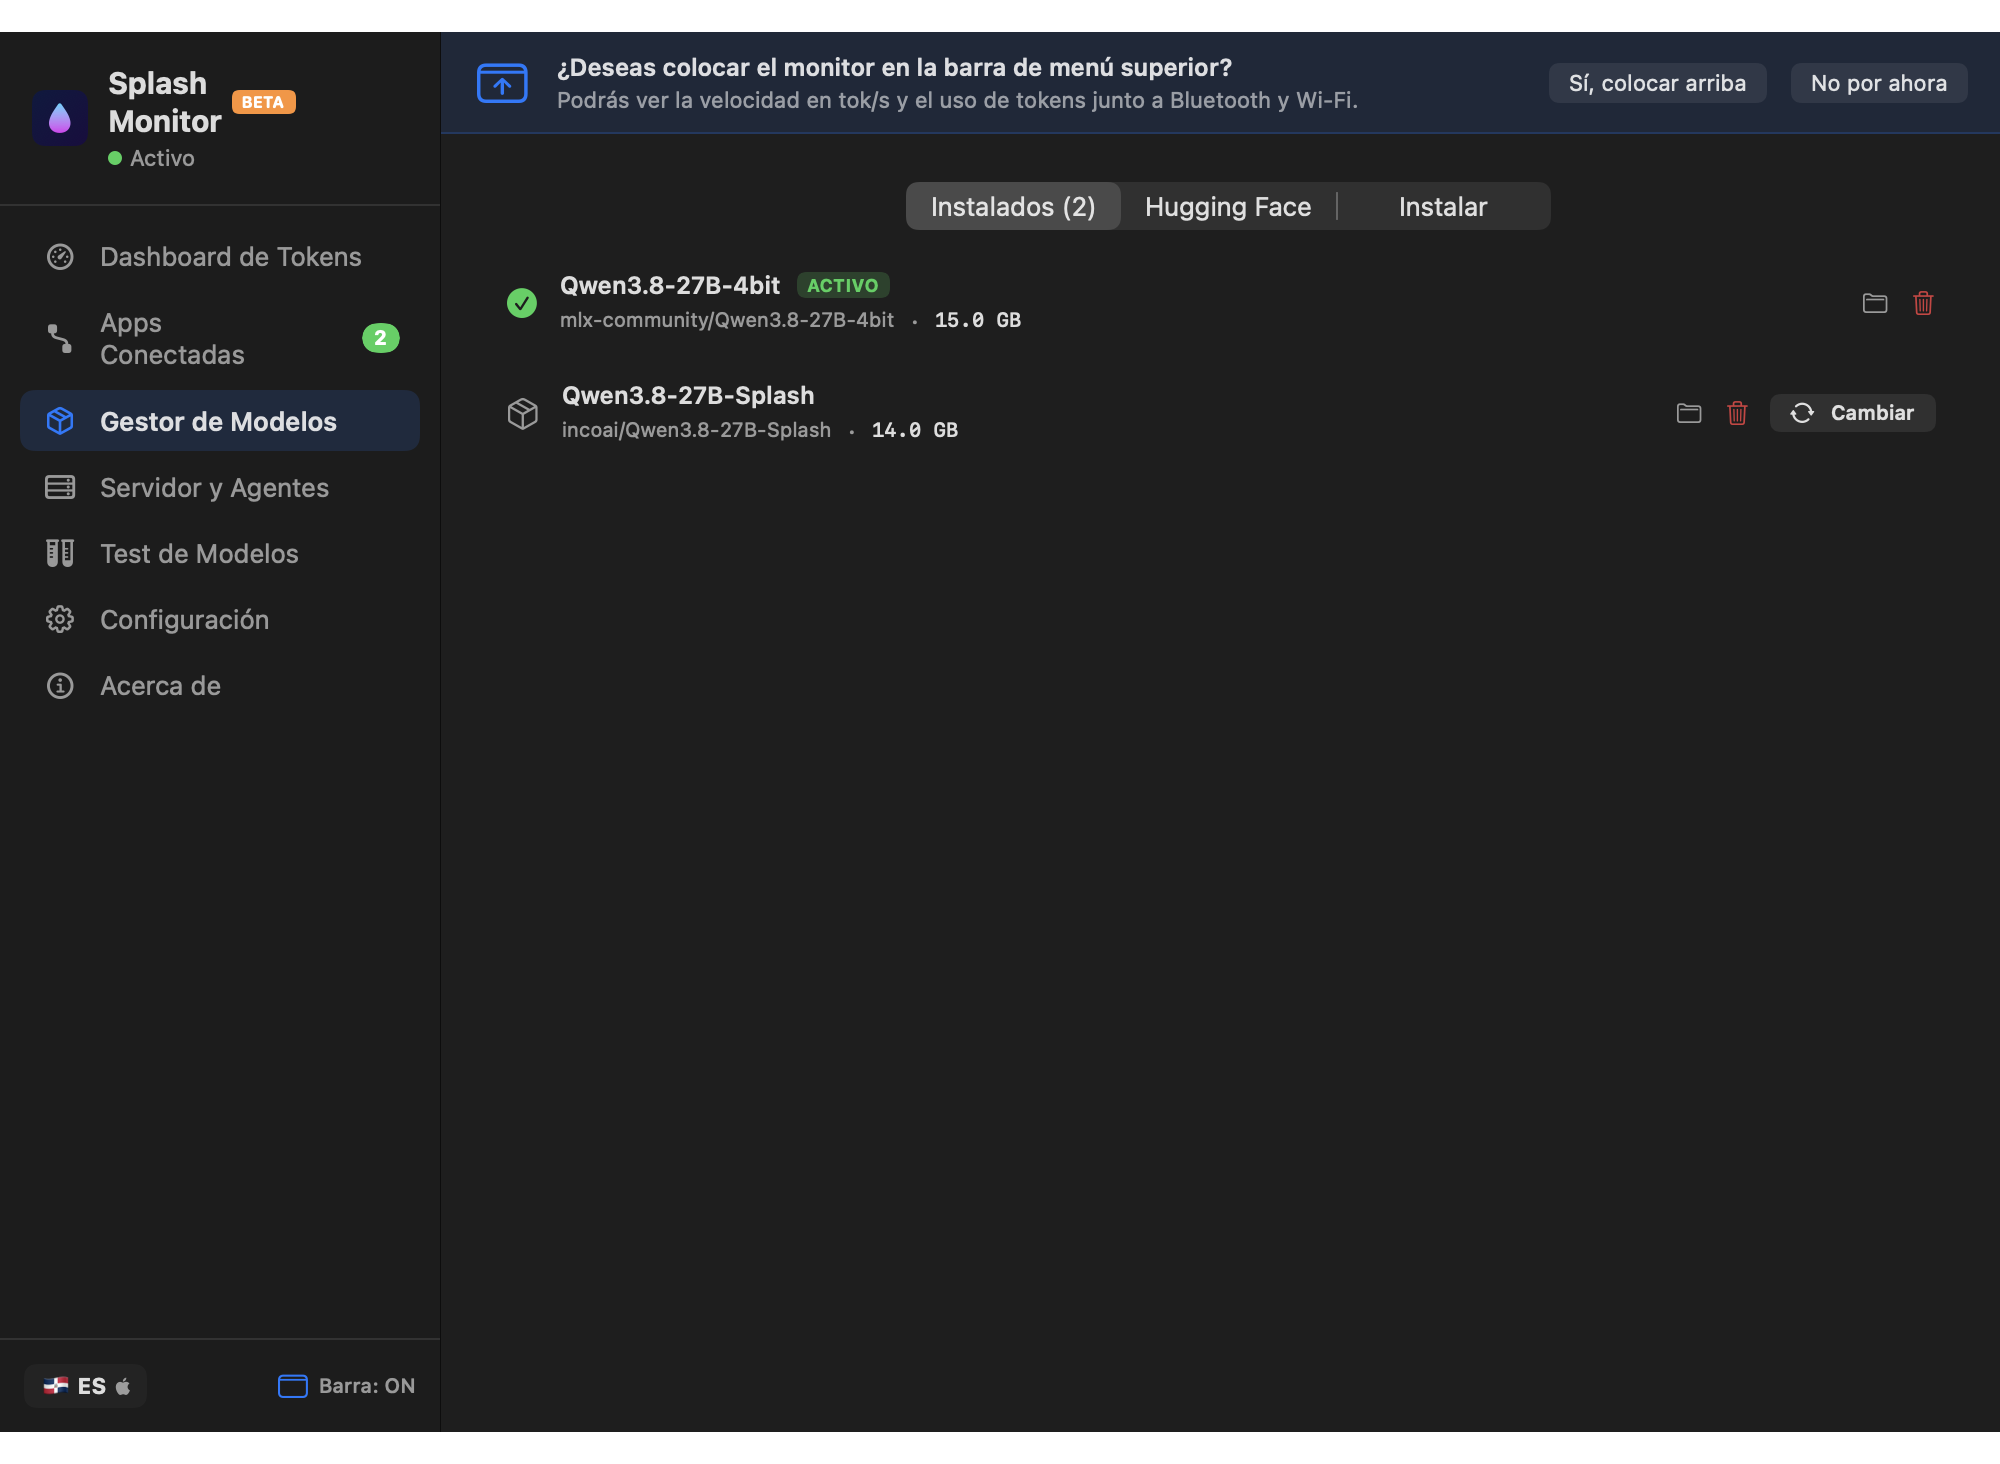
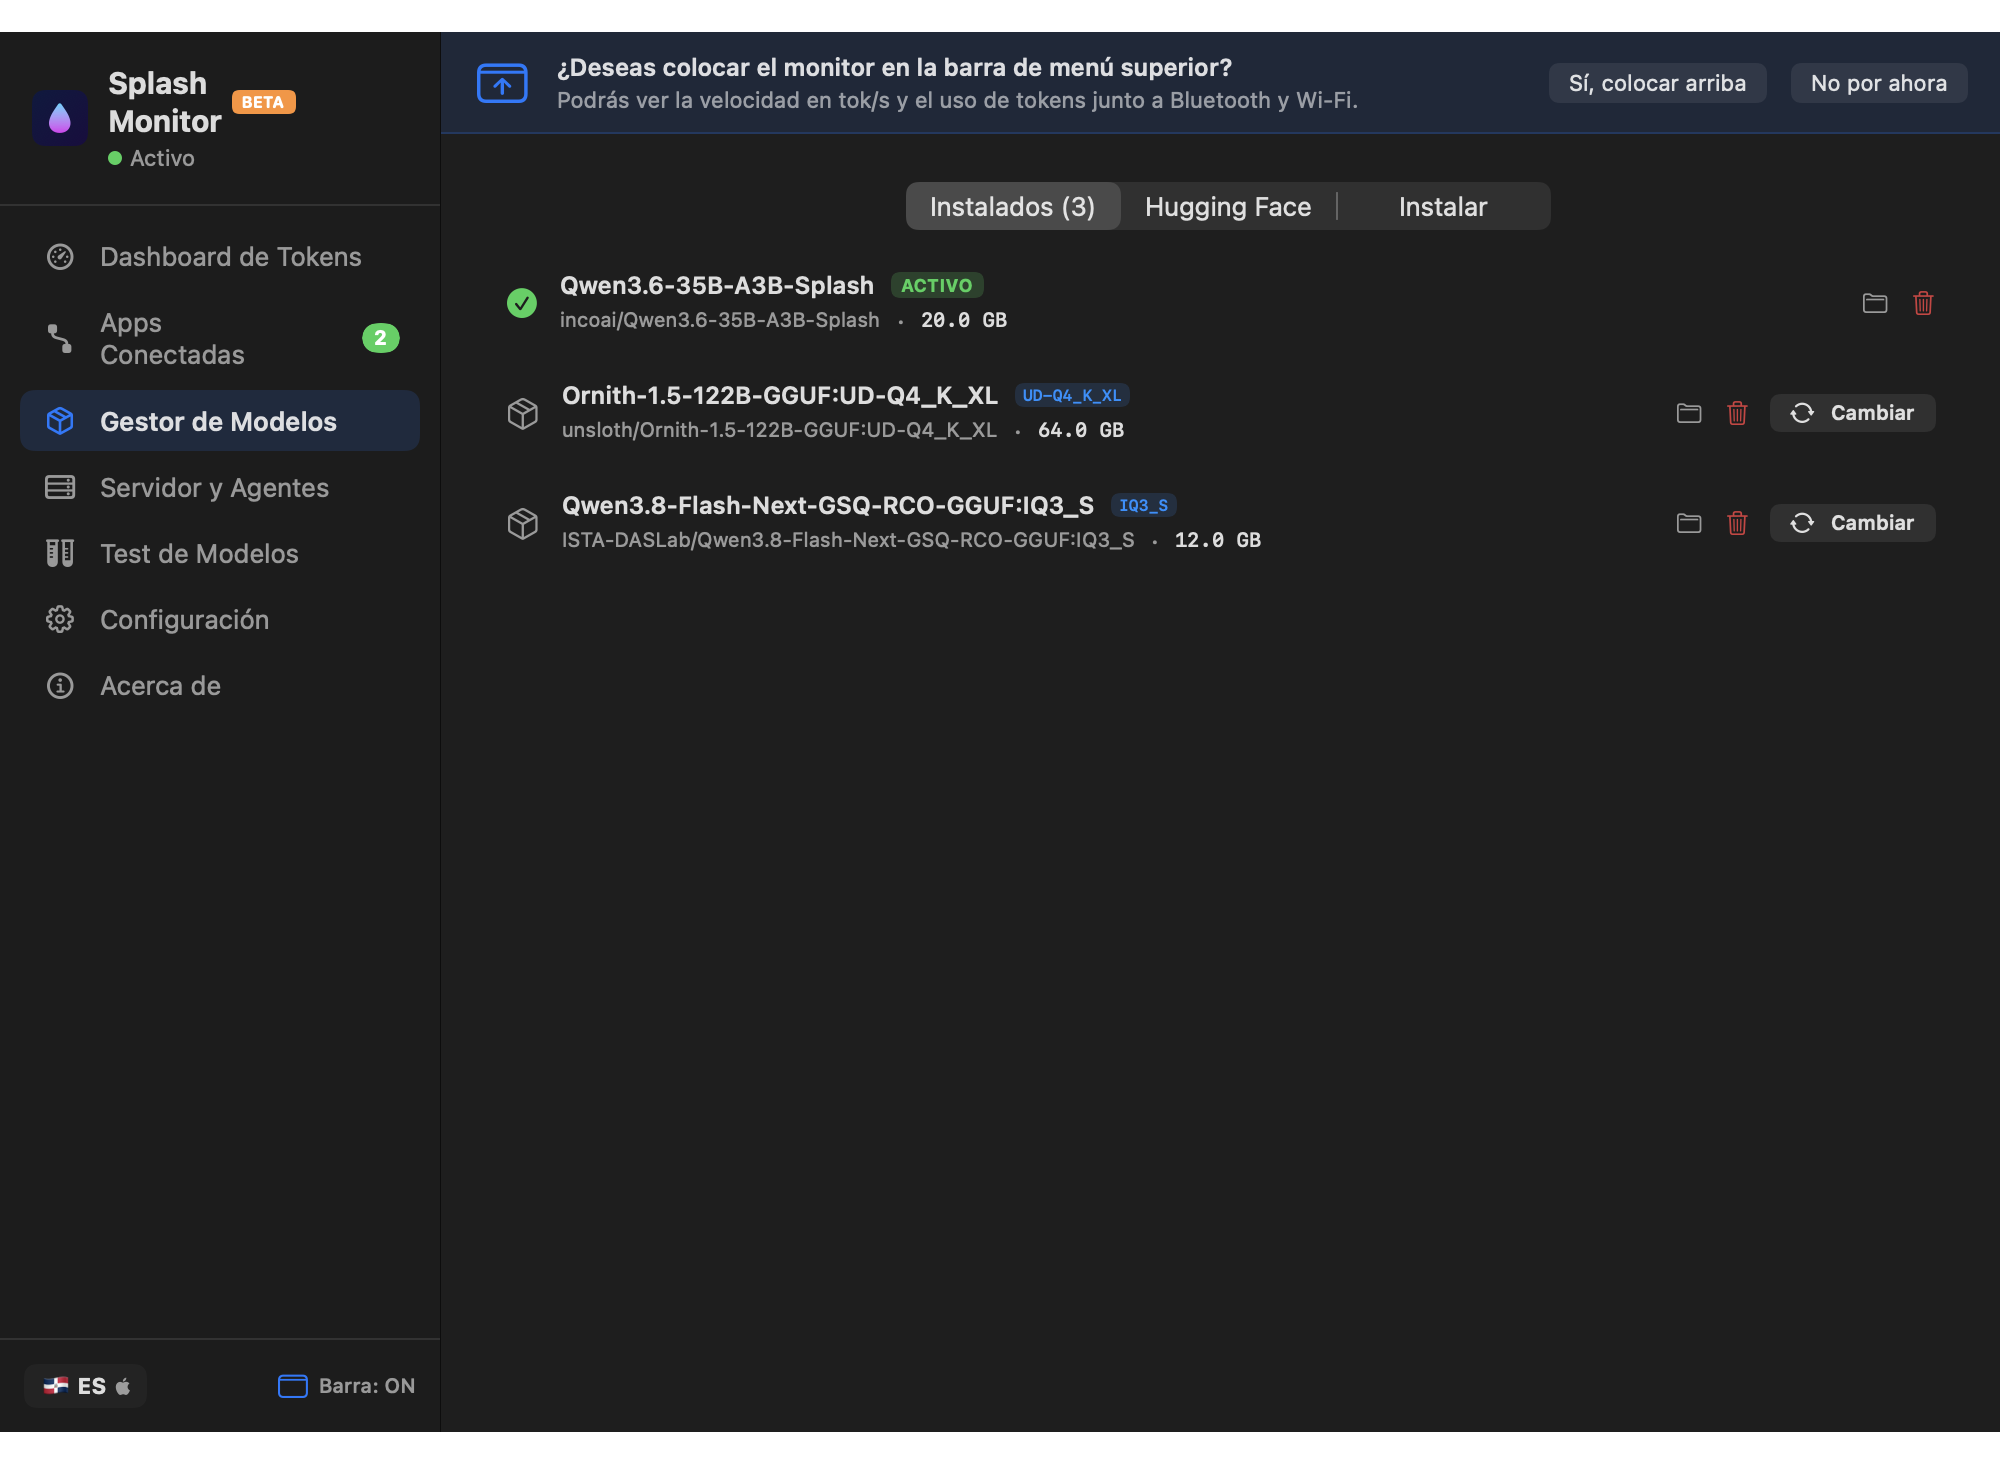
docs(screenshots): actualizar capturas de pantalla de todos los módulos para v1.1.0-beta

diff --git a/Tests/SplashMonitorTests/ScreenshotGeneratorTests.swift b/Tests/SplashMonitorTests/ScreenshotGeneratorTests.swift
@@ -17,17 +17,26 @@ final class ScreenshotGeneratorTests: XCTestCase {
         service.isSplashInstalled = true
         service.installedAgents = ["claude", "claude-cowork", "opencode", "codex", "hermes"]
         
+        service.speedHistory = [52.0, 68.4, 82.1, 94.5, 102.3, 98.0, 104.2, 108.5]
+        service.languageOnly = false
+        
         service.installedModels = [
             InstalledSplashModel(
-                repoId: "mlx-community/Qwen3.8-27B-4bit",
-                localPath: URL(fileURLWithPath: "/tmp/qwen"),
-                diskSizeBytes: 16_106_127_360,
+                repoId: "incoai/Qwen3.6-35B-A3B-Splash",
+                localPath: URL(fileURLWithPath: "/tmp/qwen36"),
+                diskSizeBytes: 21_474_836_480,
                 isCurrentlyActive: true
             ),
             InstalledSplashModel(
-                repoId: "incoai/Qwen3.8-27B-Splash",
-                localPath: URL(fileURLWithPath: "/tmp/splash"),
-                diskSizeBytes: 15_032_385_536,
+                repoId: "unsloth/Ornith-1.5-122B-GGUF:UD-Q4_K_XL",
+                localPath: URL(fileURLWithPath: "/tmp/ornith"),
+                diskSizeBytes: 68_719_476_736,
+                isCurrentlyActive: false
+            ),
+            InstalledSplashModel(
+                repoId: "ISTA-DASLab/Qwen3.8-Flash-Next-GSQ-RCO-GGUF:IQ3_S",
+                localPath: URL(fileURLWithPath: "/tmp/flashnext"),
+                diskSizeBytes: 12_884_901_888,
                 isCurrentlyActive: false
             )
         ]
